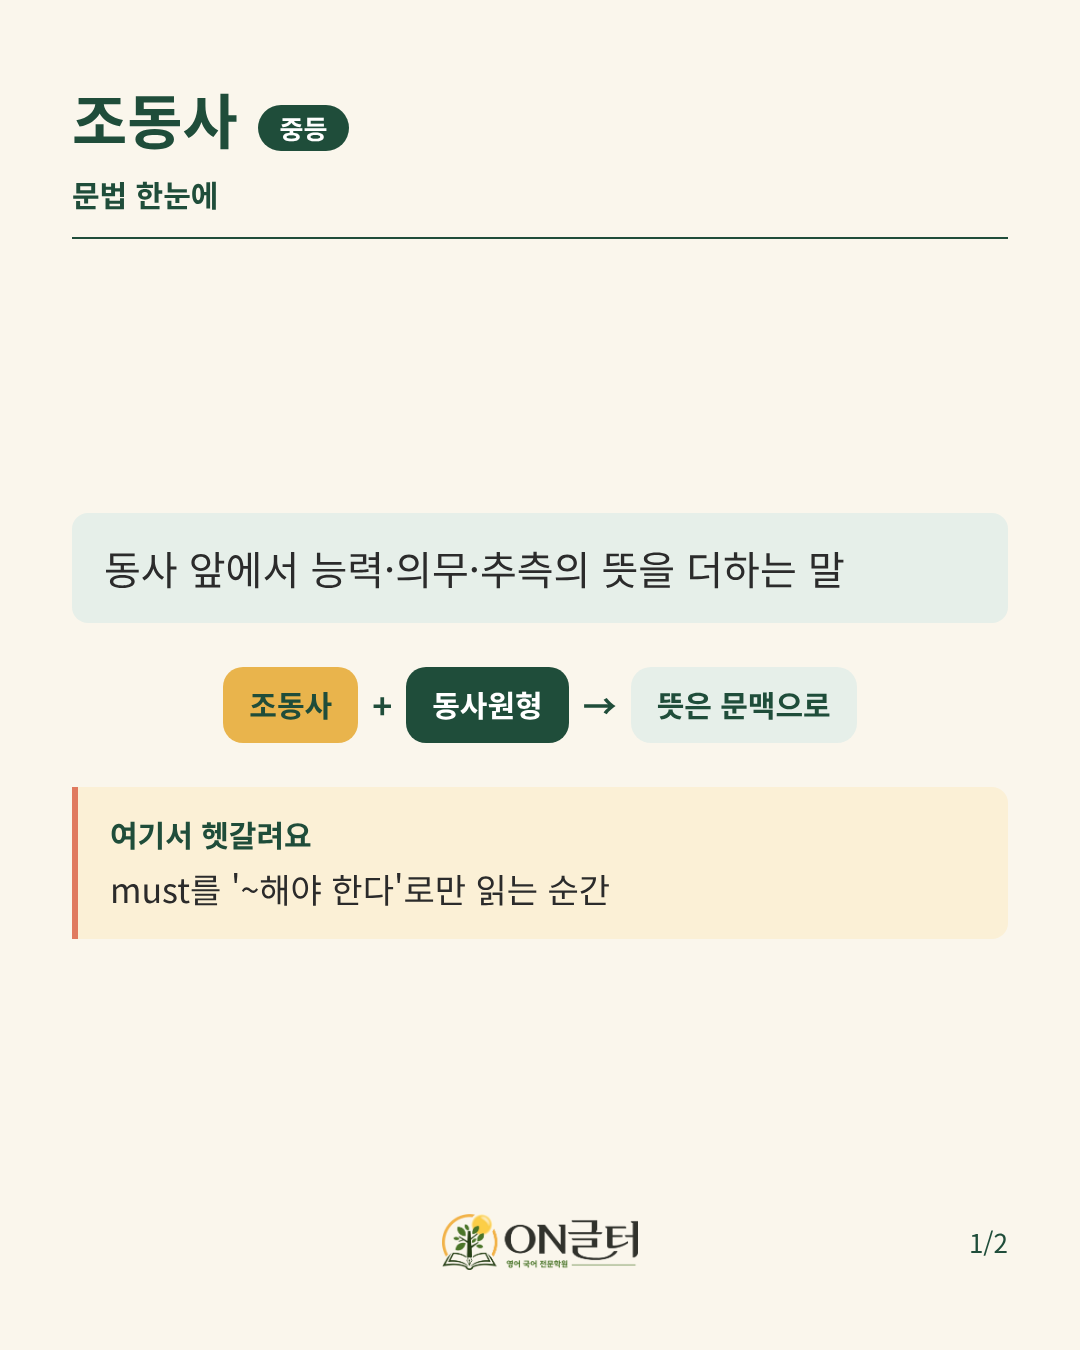
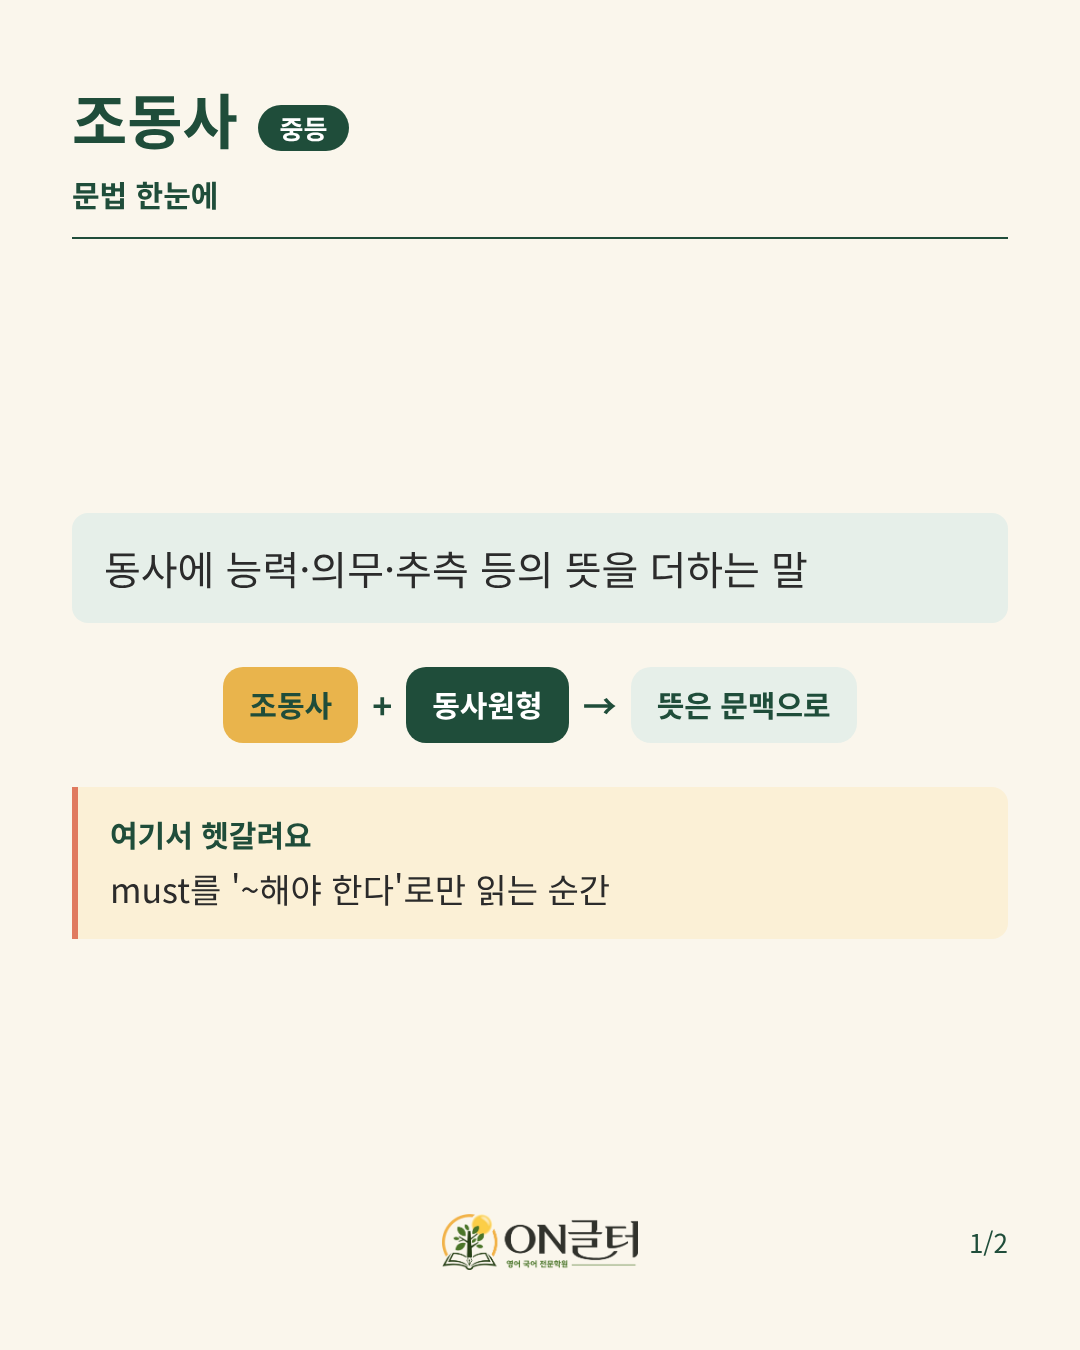
블로그: 중등 조동사 검토 반영 (본문·정리본)
Claude-Session: https://claude.ai/code/session_01FNVvsh8yoBYdMjNqx9JkZi

Changed region(s): [[0.1528, 0.4044, 0.7944, 0.4356]]

diff --git a/blog/중등_조동사/src/영상.html b/blog/중등_조동사/src/영상.html
@@ -38,13 +38,13 @@ body{background:#FAF6EC;font-family:"NKR",sans-serif;color:#2B2B2B;word-break:ke
 <section class="scene" id="s1"><div class="wrap"><p class="q rise" style="animation-delay:.2s">단어는 다 아는데,<br>must 하나에서 해석이<br>어색해진 적 있나요?</p></div></section>
 <section class="scene" id="s2"><div class="wrap">
   <div class="title rise" style="animation-delay:3.2s">조동사<br><span class="pill">중등</span></div>
-  <div class="def rise" style="animation-delay:3.9s">동사 앞에서 능력·의무·추측의<br>뜻을 더하는 말</div>
+  <div class="def rise" style="animation-delay:3.9s">동사에 능력·의무·추측 등의<br>뜻을 더하는 말</div>
 </div></section>
 <section class="scene" id="s3"><div class="wrap">
   <p class="ex rise" style="animation-delay:7s">Sora studied all night, <span class="cut" style="animation-delay:8s">/</span><br>so she must be <span class="cut" style="animation-delay:8.4s">/</span><br>very tired today.</p>
   <div class="step rise" style="animation-delay:9.5s"><span class="badge">1</span><span>첫 덩어리는 근거 '밤새 공부했다'</span></div>
-  <div class="step rise" style="animation-delay:12s"><span class="badge">2</span><span>must be는 근거로 짐작한 추측</span></div>
-  <div class="step rise" style="animation-delay:14.5s"><span class="badge">3</span><span>상태라서 '무척 피곤한 게 틀림없다'</span></div>
+  <div class="step rise" style="animation-delay:12s"><span class="badge">2</span><span>이 must는 근거에서 나온 추측</span></div>
+  <div class="step rise" style="animation-delay:14.5s"><span class="badge">3</span><span>그러면 '무척 피곤한 게 틀림없다'</span></div>
 </div></section>
 <section class="scene" id="s4"><div class="wrap"><div class="var rise" style="animation-delay:19.2s"><span class="label">여기서 헷갈려요</span>must를 '~해야 한다'로만 읽는 순간</div></div></section>
 <section class="scene" id="s5"><div class="wrap"><p class="quote rise" style="animation-delay:23.2s">"조동사 하나를 바르게 읽으면,<br>문장 전체의 방향이 보입니다."</p></div></section>

diff --git a/blog/중등_조동사/src/정리본_2.html b/blog/중등_조동사/src/정리본_2.html
@@ -4,8 +4,8 @@
   <div class="body">
     <div class="card"><p class="ex">Sora studied all night, <span class="cut">/</span><br>so she must be <span class="cut">/</span> very tired today.</p>
       <div class="step"><span class="badge">1</span><span>첫 덩어리는 근거 '밤새 공부했다'</span></div>
-      <div class="step"><span class="badge">2</span><span>must be는 근거로 짐작한 추측</span></div>
-      <div class="step"><span class="badge">3</span><span>상태라서 '무척 피곤한 게 틀림없다'</span></div>
+      <div class="step"><span class="badge">2</span><span>이 must는 근거에서 나온 추측</span></div>
+      <div class="step"><span class="badge">3</span><span>그러면 '무척 피곤한 게 틀림없다'</span></div>
     </div>
     <div class="var"><span class="label">집에서 한 번</span>must마다 의무인지 추측인지 말하기</div>
   </div>

diff --git a/blog/중등_조동사/src/정리본_1.html b/blog/중등_조동사/src/정리본_1.html
@@ -2,7 +2,7 @@
 <div class="page">
   <div class="head"><h1>조동사<span class="pill">중등</span></h1><div class="sub">문법 한눈에</div></div>
   <div class="body">
-    <div class="def">동사 앞에서 능력·의무·추측의 뜻을 더하는 말</div>
+    <div class="def">동사에 능력·의무·추측 등의 뜻을 더하는 말</div>
     <div class="formula"><span class="blk key">조동사</span><span class="op">+</span><span class="blk">동사원형</span><span class="op">→</span><span class="blk light">뜻은 문맥으로</span></div>
     <div class="var"><span class="label">여기서 헷갈려요</span>must를 '~해야 한다'로만 읽는 순간</div>
   </div>

diff --git a/blog/중등_조동사/본문.md b/blog/중등_조동사/본문.md
@@ -2,10 +2,10 @@
 
 단어는 다 아는데, must 하나에서 해석이 어색해진 적 있나요?
 
-must를 보자마자 '~해야 한다'를 붙이면, 앞에서 말한 근거와 뜻이 어긋나기 쉽습니다.
+must를 보자마자 '~해야 한다'로 옮기면, 문장 앞부분과 해석이 어긋나기 쉽습니다.
 
-조동사는 can, must처럼 동사 앞에 붙고 뒤에는 동사원형이 옵니다.
-한마디로 동사 앞에서 능력·의무·추측의 뜻을 더하는 말입니다.
+can, must 같은 조동사 뒤에는 늘 동사원형이 옵니다.
+한마디로 동사에 능력·의무·추측 등의 뜻을 더하는 말입니다.
 까다롭게도 must는 '~해야 한다'와 '~임에 틀림없다' 두 뜻을 가집니다.
 의무로만 읽으면 추측 문장에서 오독합니다.
 
@@ -14,19 +14,19 @@ Sora studied all night, so she must be very tired today.
 첫 덩어리 Sora studied all night는 '소라는 밤새 공부했다'라는 사실입니다.
 so 뒤에는 이 사실에서 이어지는 말이 옵니다.
 두 번째 덩어리 so she must be에서는 '~해야 한다'가 먼저 떠오릅니다.
-그대로 붙이면 '오늘 무척 피곤해야 한다'가 되어 말이 어색합니다.
-very tired today는 시켜서 하는 행동이 아니라 상태이기 때문입니다.
+그대로 세 번째 덩어리 very tired today를 이으면 '오늘 무척 피곤해야 한다'가 되어 어색합니다.
+피곤함은 누가 시킨다고 되는 일이 아니기 때문입니다.
 이 must는 밤샘이라는 근거로 짐작한 판단이니 '~임에 틀림없다'로 읽습니다.
 그러면 '소라는 밤새 공부했으니 오늘 무척 피곤한 게 틀림없다'로 이어집니다.
-끊어 읽을 때는 all night 뒤와 must be 뒤에 빗금을 긋고 must be에서 멈추면 됩니다.
+빗금은 all night 뒤와 must be 뒤에 긋고, 세 번째 덩어리까지 본 뒤 must의 뜻을 고르면 됩니다.
 
 "조동사 하나를 바르게 읽으면, 문장 전체의 방향이 보입니다."
 
-must를 만나면 뒤의 말이 해야 할 일인지, 근거로 짐작한 사실인지부터 보면 됩니다.
-'~해야 한다'부터 붙이면 앞 문장과 뜻이 끊깁니다.
+must를 만나면 뒤의 말이 해야 할 일인지, 근거로 짐작한 판단인지부터 보면 됩니다.
+추측 문장에 '~해야 한다'부터 붙이면 앞의 근거와 뜻이 끊깁니다.
 집에서는 must마다 의무인지 추측인지 말해 보게 하세요.
 
-조동사 뜻을 문맥으로 고르면 앞뒤 문장이 한 흐름으로 이어지고, 그렇게 정확하고 빠르게 읽는 힘이 문해력입니다.
+문해력은 조동사의 뜻을 문맥으로 골라 문장을 정확하고 빠르게 읽어 내는 힘입니다.
 온글터 수업에서는 조동사마다 뜻을 정한 근거에 밑줄을 긋고, 고른 뜻을 적으며 해석 순서를 훈련합니다.
 
 #조동사 #중학영문법 #수능영어 #내신영어 #영어공부 #문해력 #독해력향상 #영어문법꿀팁 #달서구영어학원 #달서구국어학원 #온글터 #ON글터 #경화여고영어 #원화여고영어 #달성고영어
